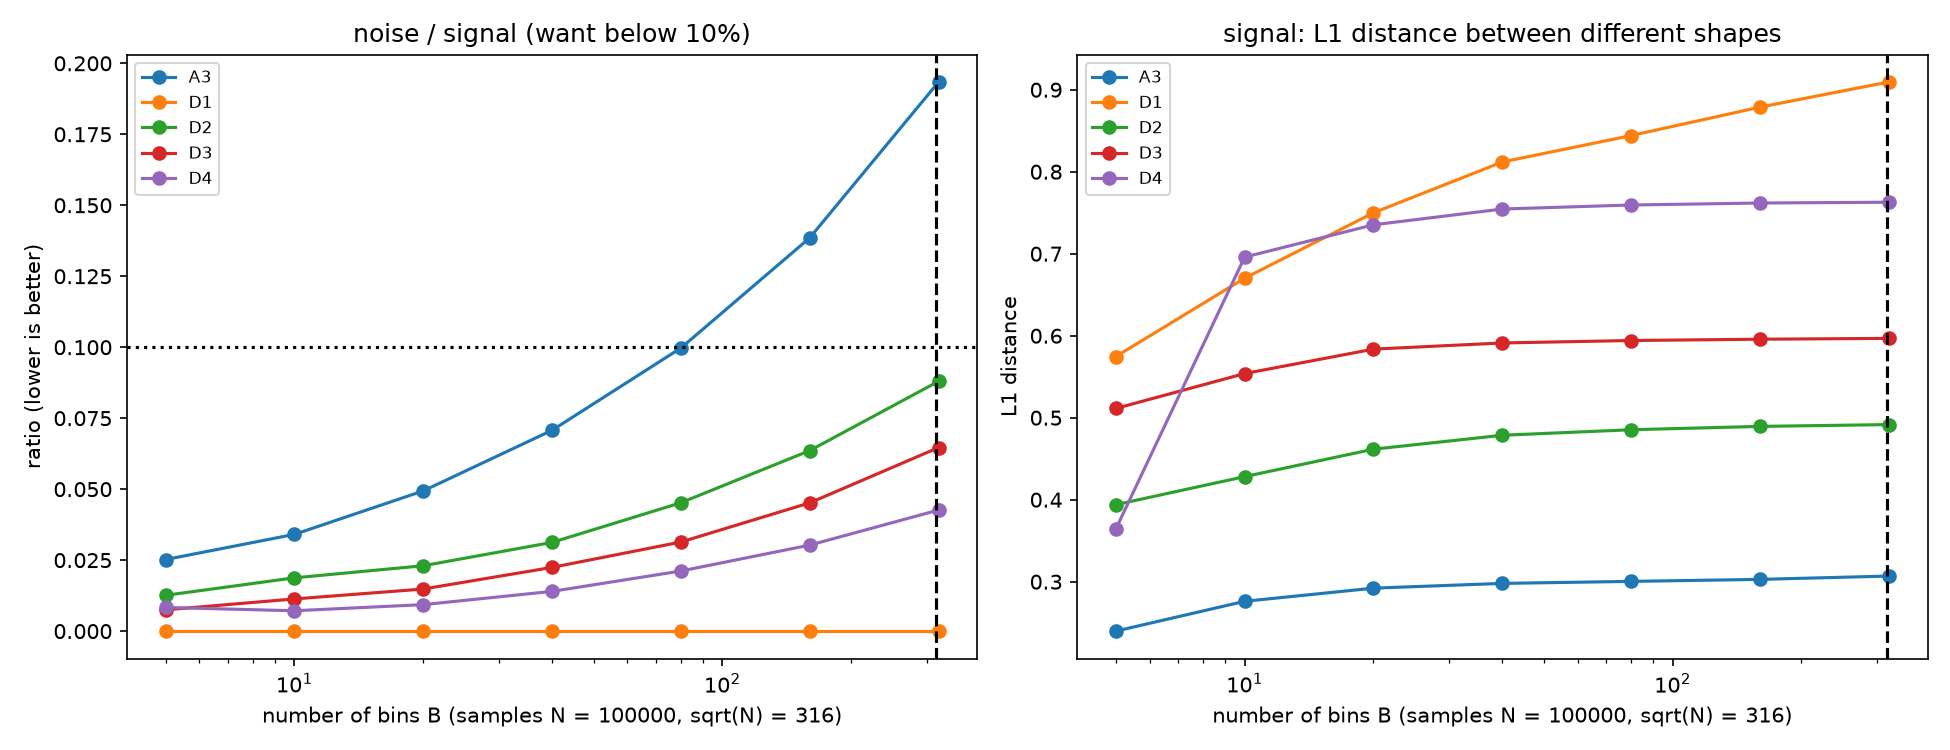
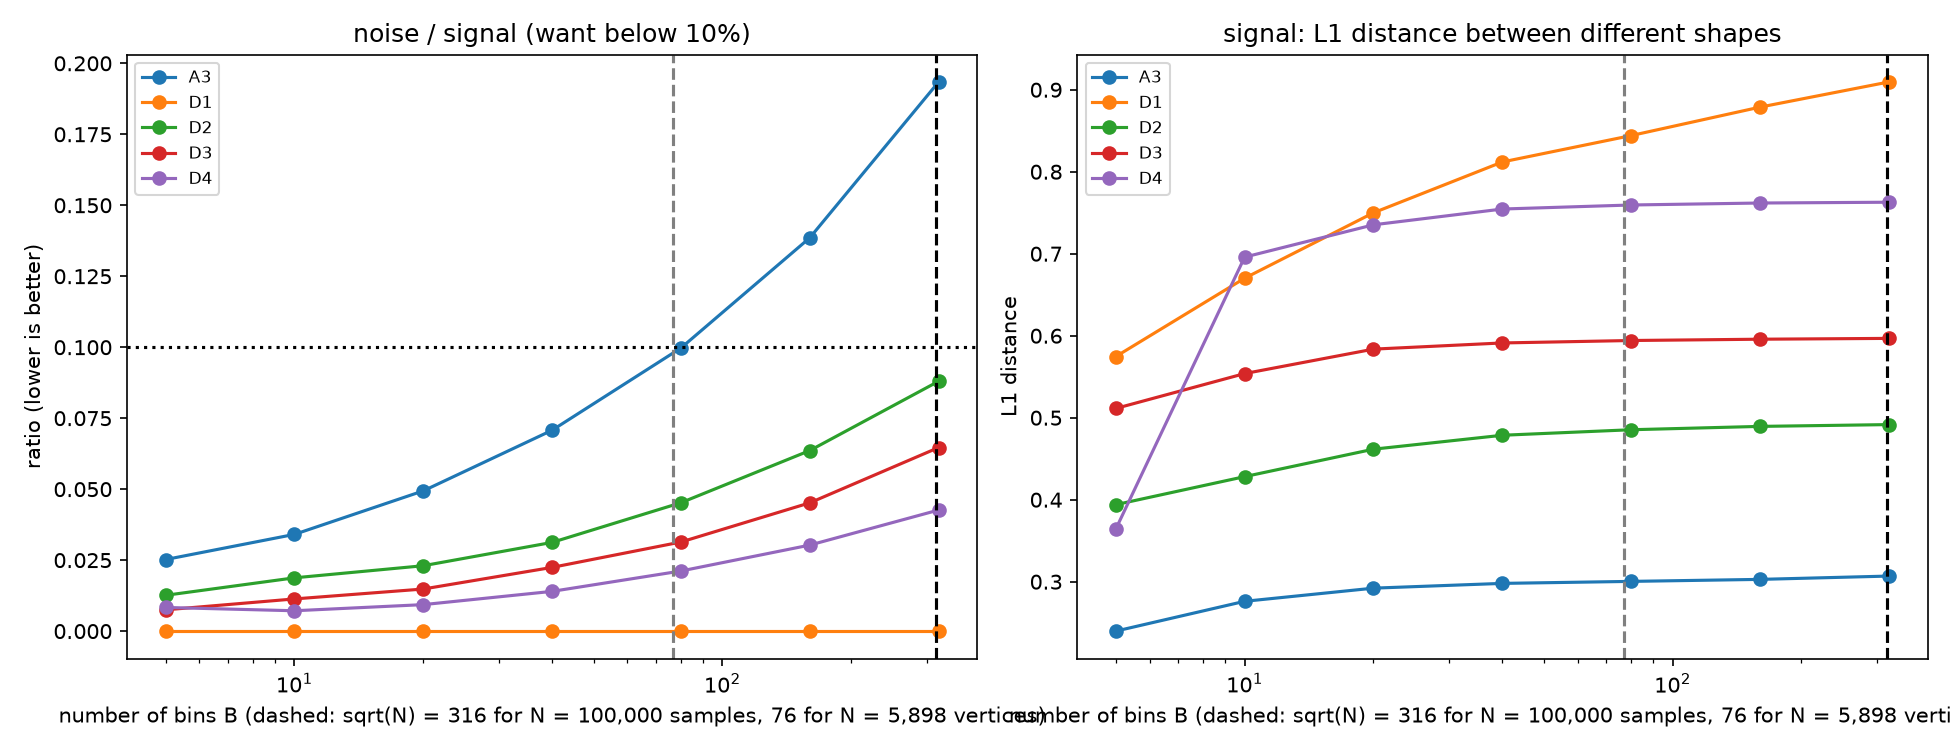
feedback to professor p2

Changed region(s): [[0.0308, 0.92, 1.0, 0.9813]]

diff --git a/curvature_choice.py b/curvature_choice.py
@@ -1,0 +1,141 @@
+import os
+import random
+import time
+import numpy as np
+import pandas as pd
+import open3d as o3d
+
+import features as ft
+from preprocessing import out_dir, normalised_dir, walk_shapes, clean_mesh, save_stats
+
+radii = [0.03, 0.05, 0.08, 0.12]
+shapes_used = 10
+choice_csv = os.path.join(out_dir, "curvature_choice.csv")
+
+
+def one_ring_shape_index(mesh):
+    verts = np.asarray(mesh.vertices)
+    tris = np.asarray(mesh.triangles)
+    _, first = np.unique(np.sort(tris, axis=1), axis=0, return_index=True)
+    tris = tris[np.sort(first)]
+    edges = [(tris[:, 1], tris[:, 2]), (tris[:, 2], tris[:, 0]), (tris[:, 0], tris[:, 1])]
+    cots, angles = [], []
+    for corner, (j, k) in enumerate(edges):
+        i = tris[:, corner]
+        u, v = verts[j] - verts[i], verts[k] - verts[i]
+        cross = np.linalg.norm(np.cross(u, v), axis=1)
+        dot = np.einsum("ij,ij->i", u, v)
+        cots.append(np.divide(dot, cross, out=np.zeros(len(tris)), where=cross > 0))
+        angles.append(np.arctan2(cross, dot))
+    face_area = np.linalg.norm(np.cross(verts[tris[:, 1]] - verts[tris[:, 0]],
+                                        verts[tris[:, 2]] - verts[tris[:, 0]]), axis=1) / 2
+    area, angle_sum, laplacian = np.zeros(len(verts)), np.zeros(len(verts)), np.zeros_like(verts)
+    for corner in range(3):
+        np.add.at(area, tris[:, corner], face_area / 3)
+        np.add.at(angle_sum, tris[:, corner], angles[corner])
+        j, k = edges[corner]
+        weighted = cots[corner][:, None] * (verts[j] - verts[k])
+        np.add.at(laplacian, j, -weighted)
+        np.add.at(laplacian, k, weighted)
+    ok = area > 0
+    ends = np.concatenate([np.sort(np.stack([tris[:, a], tris[:, b]], 1), axis=1) for a, b in ((0, 1), (1, 2), (2, 0))])
+    _, inverse, counts = np.unique(ends, axis=0, return_inverse=True, return_counts=True)
+    ok[np.unique(ends[counts[inverse] < 2])] = False
+    safe_area = np.where(ok, area, 1.0)
+    single = o3d.geometry.TriangleMesh(mesh.vertices, o3d.utility.Vector3iVector(tris))
+    single.orient_triangles()
+    single.compute_vertex_normals()
+    normals = np.asarray(single.vertex_normals)
+    a, b, c = verts[tris[:, 0]], verts[tris[:, 1]], verts[tris[:, 2]]
+    if np.einsum("ij,ij->i", a, np.cross(b, c)).sum() < 0:
+        normals = -normals
+    mean = -np.einsum("ij,ij->i", laplacian / (4 * safe_area[:, None]), normals)
+    gauss = (2 * np.pi - angle_sum) / safe_area
+    spread = np.sqrt(np.maximum(mean ** 2 - gauss, 0))
+    k1, k2 = mean + spread, mean - spread
+    flat = np.abs(k1) + np.abs(k2) < 1e-9
+    with np.errstate(divide="ignore", invalid="ignore"):
+        shape_index = (2 / np.pi) * np.arctan((k1 + k2) / (k1 - k2))
+    shape_index = np.where(flat | ~np.isfinite(shape_index), 0.0, shape_index)
+    shape_index[~flat & (k1 == k2)] = np.sign(mean[~flat & (k1 == k2)])
+    return shape_index[ok], np.ones(ok.sum())
+
+
+def expected(k1, k2, radius):
+    return np.sign(k1 + k2) * radius * np.sqrt(np.maximum(0.75 * (k1 ** 2 + k2 ** 2) - 0.5 * k1 * k2, 0))
+
+
+def validate(radius):
+    sphere_fine, sphere = ft.curvature_per_vertex(o3d.geometry.TriangleMesh.create_sphere(0.5, 100), radius)
+    side = o3d.geometry.TriangleMesh.create_cylinder(0.3, 1.0, resolution=150, split=60)
+    side.remove_triangles_by_mask(np.abs(np.asarray(side.vertices)[np.asarray(side.triangles)][:, :, 2]).max(axis=1) > 0.499)
+    side.remove_unreferenced_vertices()
+    side_fine, cylinder = ft.curvature_per_vertex(side, radius)
+    middle = np.abs(np.asarray(side_fine.vertices)[:, 2]) < 0.35
+    torus = o3d.geometry.TriangleMesh.create_torus(1.0, 0.3, 200, 80)
+    torus.scale(0.5, center=(0, 0, 0))
+    torus_fine, estimate = ft.curvature_per_vertex(torus, radius)
+    v = np.asarray(torus_fine.vertices)
+    cos_angle = (np.hypot(v[:, 0], v[:, 1]) / 0.5 - 1) / 0.3
+    truth = expected(np.full(len(v), 1 / 0.15), cos_angle / (0.5 + 0.15 * cos_angle), radius)
+    ok = np.isfinite(estimate)
+    return {"radius": radius,
+            "sphere": np.nanmedian(sphere), "sphere_expected": radius / 0.5,
+            "cylinder": np.nanmedian(cylinder[middle]), "cylinder_expected": expected(1 / 0.3, 0, radius),
+            "torus_error": np.mean(np.abs(estimate[ok] - truth[ok])),
+            "torus_correlation": np.corrcoef(estimate[ok], truth[ok])[0, 1]}
+
+
+def histogram(values, weights, lo, hi):
+    counts, _ = np.histogram(np.clip(values, lo, hi), bins=ft.bins, range=(lo, hi), weights=weights)
+    return counts / weights.sum()
+
+
+def robustness(meshes, estimator, lo, hi):
+    hists, seconds = [], []
+    for versions in meshes:
+        start = time.perf_counter()
+        row = [histogram(*estimator(m), lo, hi) for m in versions]
+        seconds.append((time.perf_counter() - start) / len(versions))
+        hists.append(row)
+    subdivided = np.mean([np.abs(h[0] - h[1]).sum() for h in hists])
+    decimated = np.mean([np.abs(h[0] - h[2]).sum() for h in hists])
+    signal = np.mean([np.abs(hists[i][0] - hists[j][0]).sum()
+                      for i in range(len(hists)) for j in range(i + 1, len(hists))])
+    return {"subdivided": subdivided, "decimated": decimated, "signal": signal,
+            "subdivided_ratio": subdivided / signal, "decimated_ratio": decimated / signal,
+            "seconds_per_mesh": np.mean(seconds)}
+
+
+def main():
+    print("validation on shapes with known curvature (values are r * kappa)")
+    print(f"{'r':>5s}  {'sphere':>15s}  {'cylinder side':>15s}  {'torus error':>11s}  {'torus corr':>10s}")
+    for radius in (0.05, ft.curvature_radius):
+        v = validate(radius)
+        print(f"{radius:>5.2f}  {v['sphere']:.4f} ({v['sphere_expected']:.4f})  "
+              f"{v['cylinder']:.4f} ({v['cylinder_expected']:.4f})  {v['torus_error']:>11.4f}  {v['torus_correlation']:>10.4f}")
+
+    random.seed(0)
+    paths = random.sample([p for p, _ in walk_shapes(normalised_dir)], shapes_used)
+    meshes = []
+    for path in paths:
+        mesh = o3d.io.read_triangle_mesh(path)
+        meshes.append((mesh, mesh.subdivide_midpoint(1), clean_mesh(mesh.simplify_quadric_decimation(len(mesh.triangles) // 2))))
+    rows = [{"estimator": "one-ring shape index", **robustness(meshes, one_ring_shape_index, -1, 1)}]
+    for radius in radii:
+        estimator = lambda m, radius=radius: ft.curvature_values(m, radius=radius)[:2]
+        rows.append({"estimator": f"covariance r = {radius}", **robustness(meshes, estimator, *ft.ranges["CURV"])})
+    table = pd.DataFrame(rows)
+    save_stats(table, choice_csv)
+    print(f"\nsame shape at another resolution vs different shapes ({shapes_used} shapes, L1 between histograms)")
+    print(f"{'estimator':24s} {'subdivided x4':>16s} {'decimated /2':>16s} {'signal':>7s} {'s/mesh':>7s}")
+    for r in table.itertuples():
+        print(f"{r.estimator:24s} {r.subdivided:6.3f} ({r.subdivided_ratio:6.1%}) {r.decimated:6.3f} ({r.decimated_ratio:6.1%})"
+              f" {r.signal:7.3f} {r.seconds_per_mesh:7.2f}")
+    worst = table.set_index("estimator")[["subdivided_ratio", "decimated_ratio"]].max(axis=1)
+    print("\nworst-case noise / signal per estimator: " + ", ".join(f"{e} {w:.1%}" for e, w in worst.items()))
+    print(f"used in features.py: r = {ft.curvature_radius} (worst case {worst[f'covariance r = {ft.curvature_radius}']:.1%})")
+
+
+if __name__ == "__main__":
+    main()

diff --git a/bin_choice.py b/bin_choice.py
@@ -20,14 +20,17 @@ def histograms(values, name, b):
 def main():
     random.seed(0)
     paths = random.sample([p for p, _ in walk_shapes(normalised_dir)], shapes_used)
-    runs = []
+    runs, vertex_counts = [], []
     for path in paths:
         mesh = o3d.io.read_triangle_mesh(path)
+        vertex_counts.append(len(mesh.vertices))
         runs.append([ft.shape_property_values(mesh, np.random.default_rng(s)) for s in (0, 1)])
+    per_vertex_n = min(vertex_counts)
+    sample_count = {name: (per_vertex_n if name == "D1" else ft.samples) for name in list(ft.ranges)[:5]}
 
     names = list(ft.ranges)[:5]
     fig, ax = plt.subplots(1, 2, figsize=(13, 5))
-    best = {}
+    best, at_bins = {}, {}
     limit = 0.1
     for name in names:
         noise, signal = [], []
@@ -41,9 +44,10 @@ def main():
         print("  noise         " + "  ".join(f"{v:6.3f}" for v in noise))
         print("  signal        " + "  ".join(f"{v:6.3f}" for v in signal))
         print("  noise/signal  " + "  ".join(f"{v:6.1%}" for v in noise / signal))
+        at_bins[name] = noise[candidates.index(ft.bins)] / signal[candidates.index(ft.bins)]
         enough = [b for b, s in zip(candidates, signal)
-                  if s >= 0.98 * signal.max() and b <= np.sqrt(ft.samples)]
-        best[name] = min(enough) if enough else max(candidates)
+                  if s >= 0.98 * signal.max() and b <= np.sqrt(sample_count[name])]
+        best[name] = min(enough) if enough else max(b for b in candidates if b <= np.sqrt(sample_count[name]))
         ax[0].plot(candidates, noise / signal, marker="o", label=name)
         ax[1].plot(candidates, signal, marker="o", label=name)
 
@@ -54,19 +58,25 @@ def main():
     ax[1].set_ylabel("L1 distance")
     for a in ax:
         a.set_xscale("log")
-        a.set_xlabel(f"number of bins B (samples N = {ft.samples}, sqrt(N) = {int(np.sqrt(ft.samples))})")
+        a.set_xlabel(f"number of bins B (dashed: sqrt(N) = {int(np.sqrt(ft.samples))} for N = {ft.samples:,} samples, "
+                     f"{int(np.sqrt(per_vertex_n))} for N = {per_vertex_n:,} vertices)")
         a.axvline(np.sqrt(ft.samples), color="black", linestyle="--")
+        a.axvline(np.sqrt(per_vertex_n), color="gray", linestyle="--")
         a.legend(fontsize=8)
     plt.tight_layout()
     fname = os.path.join(out_dir, "bin_choice.png")
     plt.savefig(fname, dpi=150)
     plt.close(fig)
     print("saved", fname)
-    print("smallest B reaching 98% of the best signal, per descriptor:", best)
-    print(f"we use a single B = {ft.bins} for all of them: the signal there is within a few percent"
-          f" of saturation, the resampling noise stays under ~7% of the distance between shapes,"
-          f" it is well below sqrt(N) = {int(np.sqrt(ft.samples))}, and it keeps the feature"
-          f" vector at {6 * ft.bins} values")
+    print("smallest B reaching 98% of the best signal while staying below sqrt(N), per descriptor:", best)
+    sampled = {name: ratio for name, ratio in at_bins.items() if name != "D1"}
+    print(f"we use a single B = {ft.bins} for all of them: the sampling noise there is at most"
+          f" {max(sampled.values()):.1%} of the distance between shapes ({max(sampled, key=sampled.get)}),"
+          f" D1 uses every vertex once so it has no sampling noise, and B stays below sqrt(N) for every"
+          f" histogram: sqrt({ft.samples:,}) = {int(np.sqrt(ft.samples))} for A3 and D2-D4,"
+          f" sqrt({per_vertex_n:,}) = {int(np.sqrt(per_vertex_n))} for D1 (the fewest vertices of any shape here)"
+          f" and sqrt({ft.curvature_samples:,}) = {int(np.sqrt(ft.curvature_samples))} for the curvature samples;"
+          f" the feature vector stays at {6 * ft.bins} histogram values")
 
 
 if __name__ == "__main__":

diff --git a/volume_check.py b/volume_check.py
@@ -1,0 +1,58 @@
+import os
+import random
+import time
+import numpy as np
+import pandas as pd
+import open3d as o3d
+
+import features as ft
+from preprocessing import out_dir, normalised_dir, walk_shapes, save_stats
+
+shapes_used = 40
+resolutions = [32, 64, 128, 256]
+ray_counts = [1, 3, 5]
+check_csv = os.path.join(out_dir, "volume_check.csv")
+
+
+def main():
+    random.seed(0)
+    picked = random.sample(list(walk_shapes(normalised_dir)), shapes_used)
+    rows = []
+    for path, cls in picked:
+        mesh = o3d.io.read_triangle_mesh(path)
+        hull, _ = mesh.compute_convex_hull()
+        row = {"path": path, "class": cls, "hull_volume": ft.closed_mesh_volume(hull),
+               "watertight": mesh.is_watertight()}
+        for res in resolutions:
+            start = time.perf_counter()
+            row[f"volume_{res}"] = ft.mesh_volume(mesh, res)
+            row[f"seconds_{res}"] = time.perf_counter() - start
+        for rays in ray_counts[1:]:
+            row[f"volume_{ft.volume_res}_rays{rays}"] = ft.mesh_volume(mesh, ft.volume_res, rays)
+        start = time.perf_counter()
+        ft.global_features(mesh)
+        row["seconds_global_features"] = time.perf_counter() - start
+        rows.append(row)
+    data = pd.DataFrame(rows)
+    save_stats(data, check_csv)
+
+    finest = data[f"volume_{resolutions[-1]}"]
+    print(f"{shapes_used} random shapes, {data['watertight'].sum()} of them watertight")
+    print(f"\n{'grid':>6s}  {'cells along longest side':>24s}  {'median |V - V_256| / V_256':>27s}  {'90th pct':>9s}  {'s per shape':>11s}")
+    for res in resolutions:
+        rel = (data[f"volume_{res}"] - finest).abs() / finest
+        print(f"{res:>6d}  {res:>24d}  {rel.median():>27.2%}  {rel.quantile(0.9):>9.2%}  {data[f'seconds_{res}'].mean():>11.2f}")
+
+    print(f"\ninside test with several rays (majority vote), grid {ft.volume_res}:")
+    base = data[f"volume_{ft.volume_res}"]
+    print(f"  1 ray : volume above hull volume for {(base > data['hull_volume']).sum()} shapes")
+    for rays in ray_counts[1:]:
+        v = data[f"volume_{ft.volume_res}_rays{rays}"]
+        rel = (v - base).abs() / base
+        print(f"  {rays} rays: volume above hull volume for {(v > data['hull_volume']).sum()} shapes, "
+              f"median change vs 1 ray {rel.median():.2%}, 90th pct {rel.quantile(0.9):.2%}")
+    print(f"\nall six global descriptors together: {data['seconds_global_features'].mean():.2f} s per shape on average")
+
+
+if __name__ == "__main__":
+    main()

diff --git a/show_average_outliers.py b/show_average_outliers.py
@@ -3,7 +3,8 @@ import sys
 import pandas as pd
 import open3d as o3d
 
-from preprocessing import stats_csv, average_outliers_csv, find_average_and_outliers, save_stats
+from preprocessing import stats_csv, average_outliers_csv, out_dir, find_average_and_outliers, save_stats
+from snapshots import render, shaded, save_grid, angled
 
 repo_dir = os.path.dirname(os.path.abspath(__file__))
 csv_path = os.path.join(repo_dir, stats_csv)
@@ -14,10 +15,21 @@ stats = pd.read_csv(csv_path)
 picked = find_average_and_outliers(stats)
 save_stats(picked, os.path.join(repo_dir, average_outliers_csv))
 
+images, captions = [], []
 for _, row in picked.iterrows():
     path = row["path"].replace("\\", "/")
-    title = f"{row['kind']}: {row['class']} - {os.path.basename(path)} ({row['num_verts']}v / {row['num_faces']}f)"
-    print("showing", title)
-    mesh = o3d.io.read_triangle_mesh(os.path.join(repo_dir, path))
-    mesh.compute_vertex_normals()
-    o3d.visualization.draw_geometries([mesh], window_name=title, width=1280, height=720, mesh_show_wireframe=True)
+    key = f"{row['class']}/{os.path.splitext(os.path.basename(path))[0]}"
+    mesh = shaded(os.path.join(repo_dir, path), (0.8, 0.8, 0.8))
+    images.append(render(mesh, size=800, view=angled(mesh), wireframe=True))
+    captions.append(f"{row['kind']}: {key}\n{row['num_verts']:,} v / {row['num_faces']:,} f")
+save_grid(images, captions, os.path.join(repo_dir, out_dir, "average_and_outliers.png"), columns=4,
+          cell=(3.2, 3.0), fontsize=9)
+
+if "-nogui" not in sys.argv[1:]:
+    for _, row in picked.iterrows():
+        path = row["path"].replace("\\", "/")
+        title = f"{row['kind']}: {row['class']} - {os.path.basename(path)} ({row['num_verts']}v / {row['num_faces']}f)"
+        print("showing", title)
+        mesh = o3d.io.read_triangle_mesh(os.path.join(repo_dir, path))
+        mesh.compute_vertex_normals()
+        o3d.visualization.draw_geometries([mesh], window_name=title, width=1280, height=720, mesh_show_wireframe=True)

diff --git a/preprocessing.py b/preprocessing.py
@@ -99,13 +99,14 @@ def make_histograms(df, label=""):
 
 def make_class_histogram(df, label=""):
     os.makedirs(out_dir, exist_ok=True)
-    counts = df["class"].value_counts().sort_values(ascending=False)
-    fig, ax = plt.subplots(figsize=(max(8, len(counts) * 0.3), 5))
-    ax.bar(counts.index, counts.values, color="seagreen", edgecolor="black")
+    counts = df["class"].value_counts().sort_values()
+    fig, ax = plt.subplots(figsize=(7, max(5, len(counts) * 0.16)))
+    ax.barh(counts.index, counts.values, color="seagreen", edgecolor="black")
     ax.set_title("shapes per class " + label)
-    ax.set_xlabel("class")
-    ax.set_ylabel("# shapes")
-    plt.xticks(rotation=90)
+    ax.set_xlabel("# shapes")
+    ax.set_ylabel("class")
+    ax.tick_params(axis="y", labelsize=7)
+    ax.margins(y=0.005)
     plt.tight_layout()
     fname = os.path.join(out_dir, f"class_histogram_{label.strip().replace(' ', '_')}.png")
     plt.savefig(fname, dpi=150)

diff --git a/features.py b/features.py
@@ -134,7 +134,7 @@ def closed_mesh_volume(mesh):
     a, b, c = verts[tris[:, 0]], verts[tris[:, 1]], verts[tris[:, 2]]
     return abs(np.einsum("ij,ij->i", a, np.cross(b, c)).sum() / 6)
 
-def mesh_volume(mesh, res=volume_res):
+def mesh_volume(mesh, res=volume_res, rays=1):
     scene = o3d.t.geometry.RaycastingScene()
     scene.add_triangles(o3d.t.geometry.TriangleMesh.from_legacy(mesh))
     verts = np.asarray(mesh.vertices)
@@ -142,7 +142,7 @@ def mesh_volume(mesh, res=volume_res):
     step = (hi - lo).max() / res
     axes = [np.arange(lo[i] + step / 2, hi[i] + step / 2, step) for i in range(3)]
     points = np.stack(np.meshgrid(*axes, indexing="ij"), axis=-1).reshape(-1, 3)
-    inside = scene.compute_occupancy(o3d.core.Tensor(points.astype(np.float32))).numpy()
+    inside = scene.compute_occupancy(o3d.core.Tensor(points.astype(np.float32)), nsamples=rays).numpy()
     return float(inside.sum()) * step ** 3
 
 def global_features(mesh):

diff --git a/knn.py b/knn.py
@@ -99,7 +99,7 @@ def check(k=10, compared=50):
     print(f"max difference with distance.py: {gap:.2e}")
 
     recall, tree_time, brute_time = [], 0.0, 0.0
-    everyone = np.arange(n)
+    everyone = slice(None)
     for i in range(n):
         q = engine.vectors[i]
         start = time.perf_counter()

diff --git a/README.md b/README.md
@@ -47,12 +47,13 @@ Ten shapes are held out of the database to act as unseen queries; they are liste
 | 1 viewer | `python main.py [mesh.obj]` | interactive viewer (mouse: rotate, zoom, pan; `W` toggles the wireframe) |
 | 2 statistics, resampling, normalisation | `python preprocessing.py` | `out/shape_stats*.csv`, `out/resampled/`, `out/normalised/`, histograms |
 | | `python preprocessing.py normalise` | only redo the normalisation and its check |
-| 2 inspection | `python show_average_outliers.py`, `python show_resampled.py [Class/shape ...] [-nogui]` | viewer windows; `out/resampling_examples.png` (original vs resampled, wireframe) |
+| 2 inspection | `python show_average_outliers.py [-nogui]`, `python show_resampled.py [Class/shape ...] [-nogui]` | viewer windows; `out/average_and_outliers.png`, `out/resampling_examples.png` (original vs resampled, wireframe) |
 | 3 normalisation check | `python show_normalised.py [Class/shape ...]`, `python show_normalisation_steps.py [Class/shape ...]` | before/after viewer windows; `out/normalisation_steps.png` (each step with a fixed camera) |
 | 3 features | `python features.py` | `out/features.csv`, `out/skipped_shapes.csv` |
 | | `python features.py Gun/D00204` | prints the features of one shape |
 | 3 checks | `python validate_features.py`, `python bin_choice.py`, `python show_descriptors.py [view]` | descriptor checks on simple shapes, bin choice, `out/descriptor_examples.png` |
-| 3 curvature | `python show_curvature.py [Class/shape ...]` | `out/curvature_examples.png` (meshes coloured by curvature) |
+| 3 curvature | `python show_curvature.py [Class/shape ...]`, `python curvature_choice.py` | `out/curvature_examples.png` (meshes coloured by curvature); validation on primitives and the radius / robustness comparison, `out/curvature_choice.csv` |
+| 3 volume | `python volume_check.py` | voxel resolution convergence, timing and multi-ray inside test, `out/volume_check.csv` |
 | 4 feature normalisation | `python normalise_features.py` | `out/features_{log,standard,minmax}.csv`, `out/holdout.csv` |
 | | `python normalise_features.py Gun/D00204 [log\|standard\|minmax]` | prints the normalised features of one shape |
 | 4 choosing the distance | `python compare_distances.py`, `python threshold_choice.py` | `out/distance_comparison.*`, `out/threshold_choice.png` |
